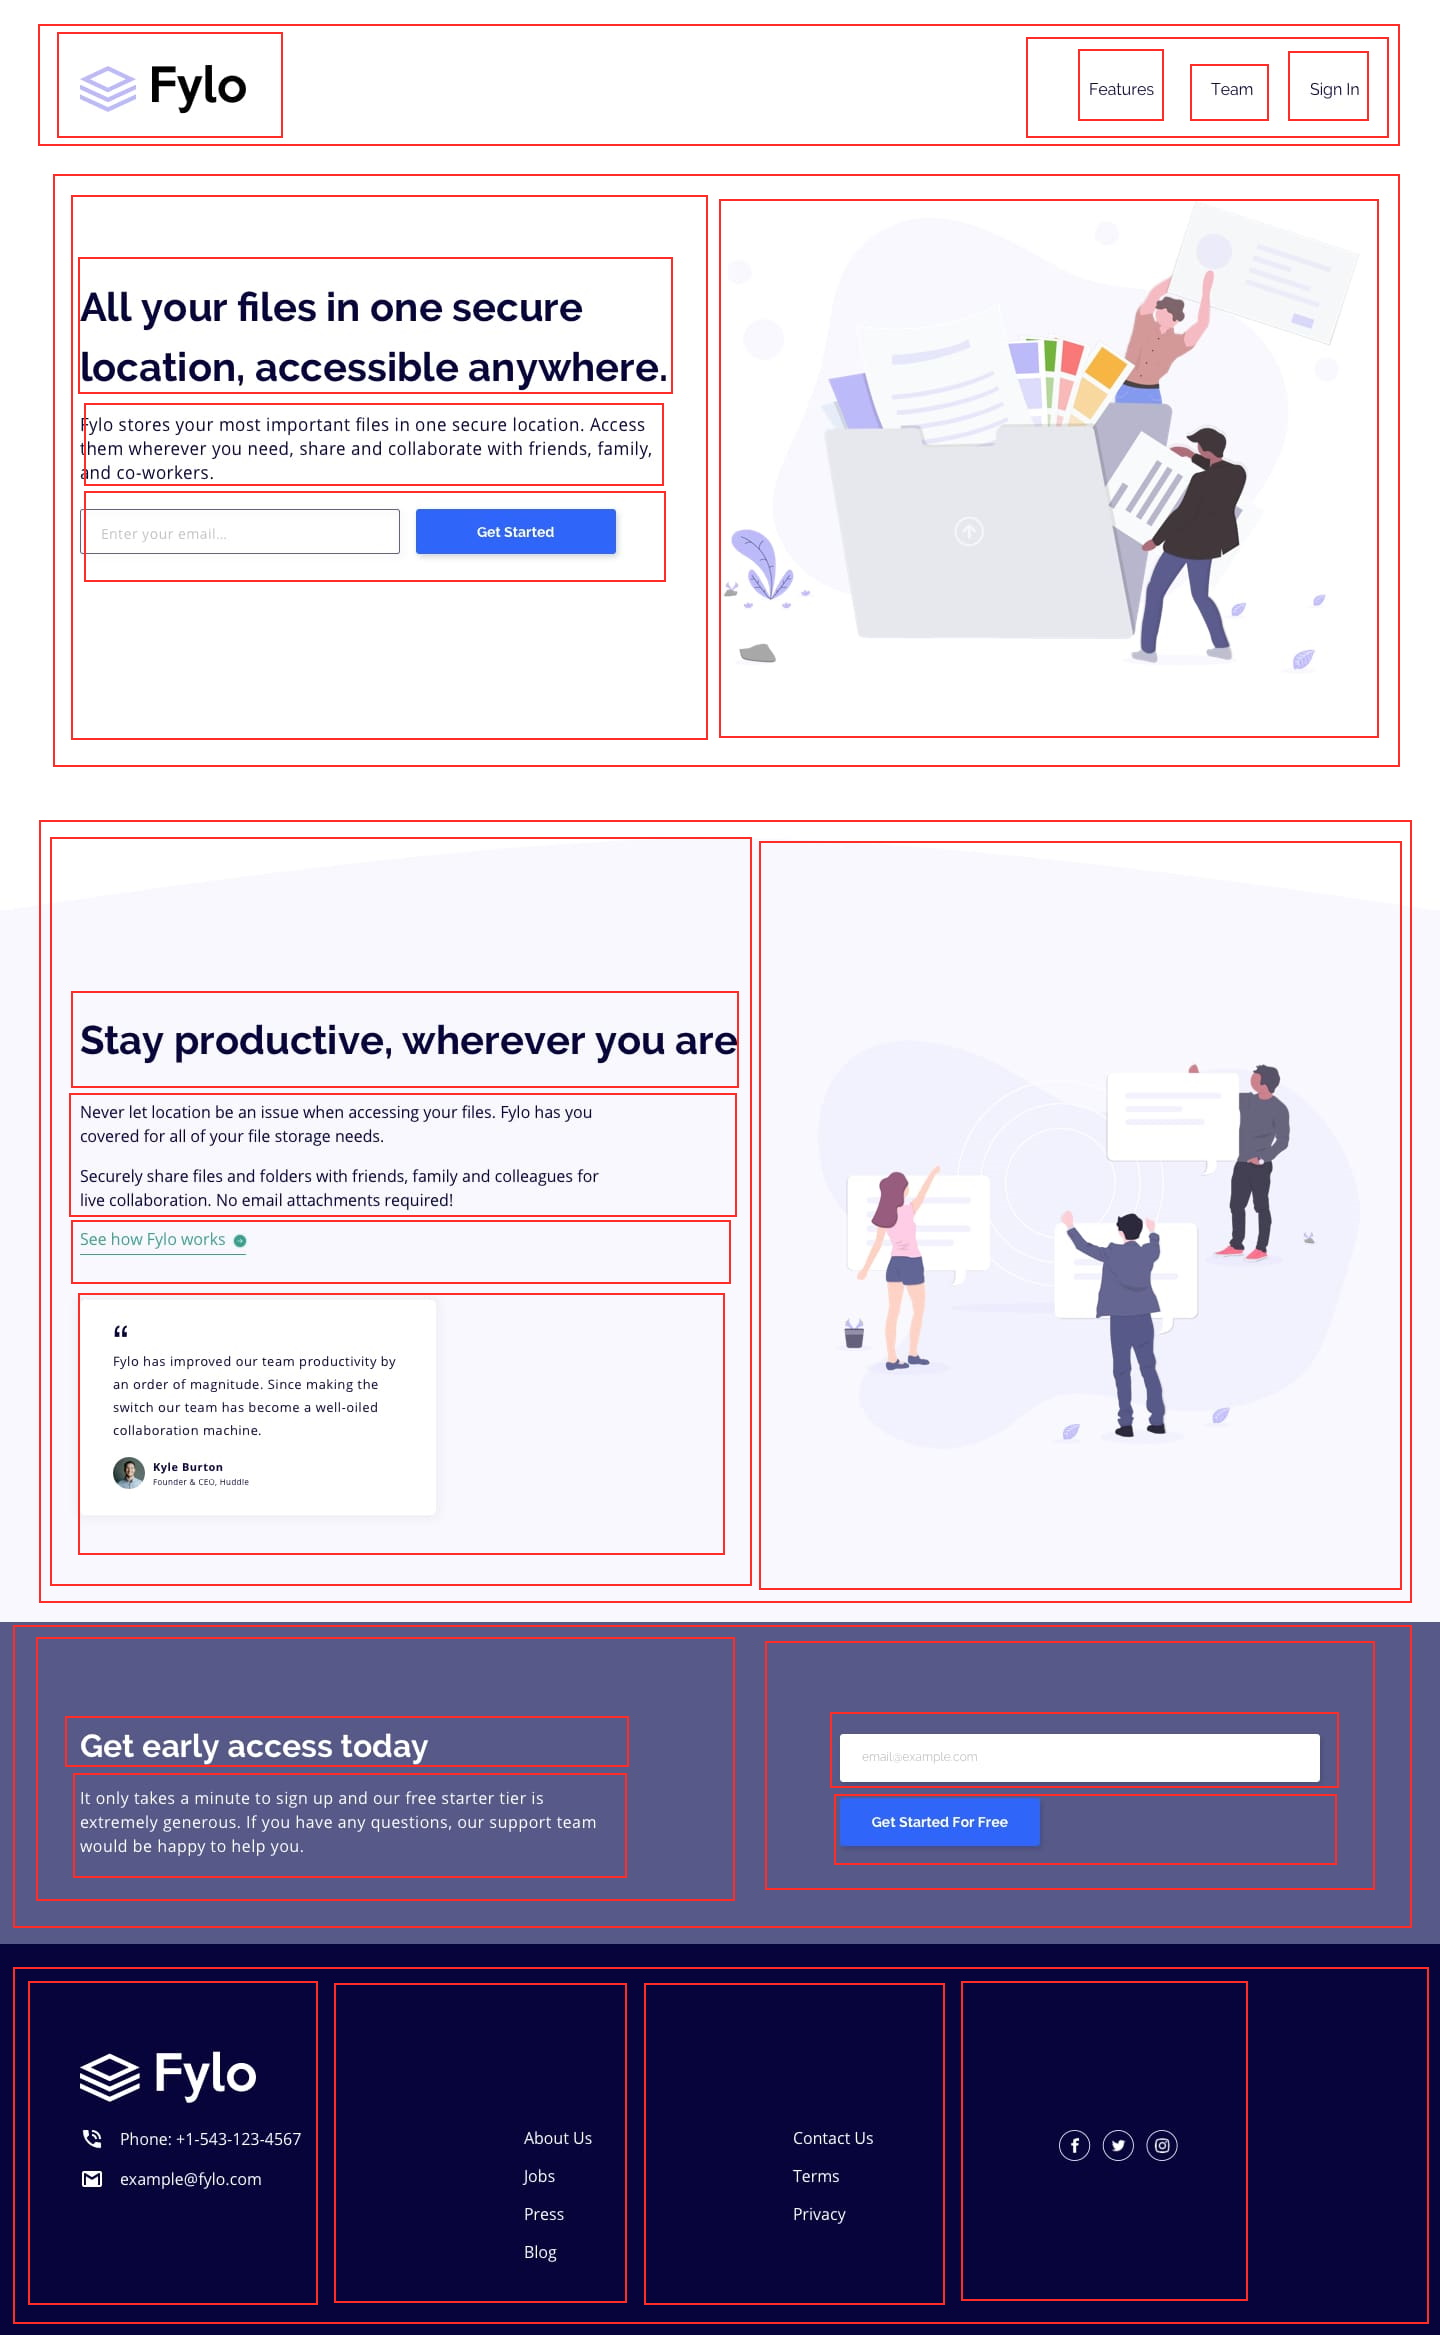
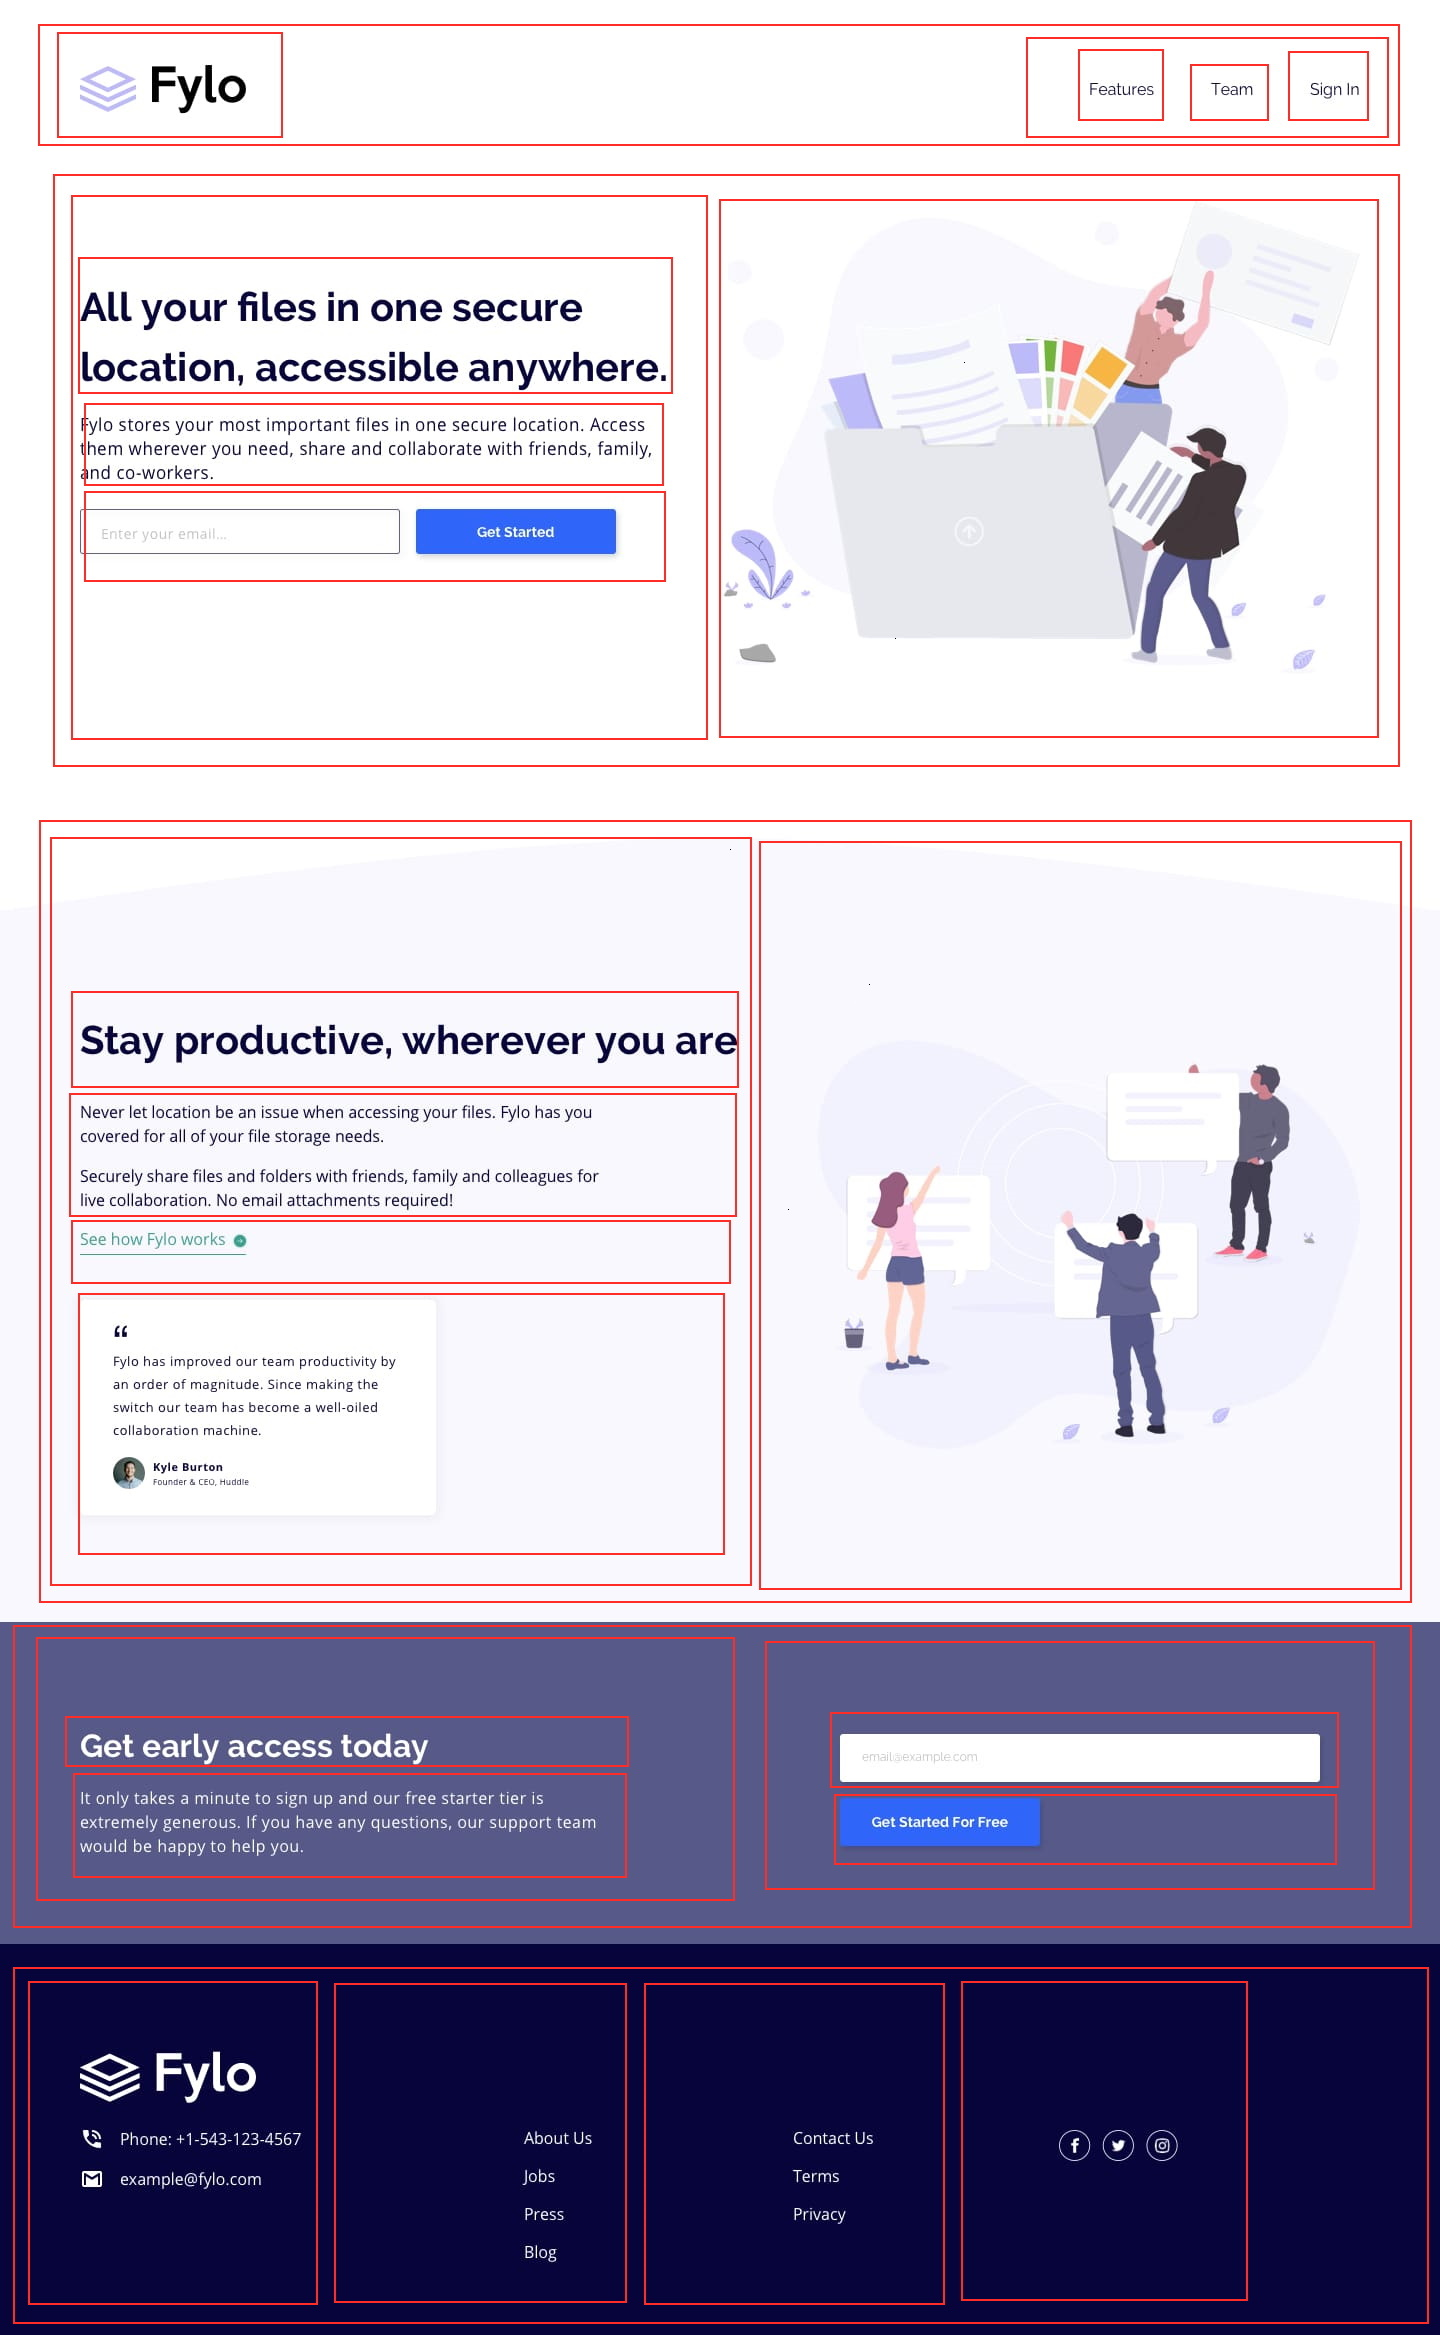
three section

Changed region(s): [[0.5, 0.4317, 0.5312, 0.6784], [0.0312, 0.0925, 0.0625, 0.2467]]

diff --git a/css/main.css b/css/main.css
@@ -2,7 +2,6 @@
 header{
 display: inline-block;
 width: 100%;
-/* background-color: #FFF; */
 font-family: 'Raleway', sans-serif;
 margin-bottom: 50px;
 }
@@ -43,13 +42,11 @@ margin-bottom: 50px;
 .section{
 display: inline-block;
 width: 100%;
-/* background-color:burlywood; */
 
 }
     .first-row{
     display: inline-block;
     width: 100%;
-    /* background-color: lightcoral; */
     width: 50%;
     float: left;
     margin: 3%;
@@ -81,10 +78,8 @@ width: 100%;
 
     .second-row{
     display: inline-block;
-    /* background-color: lightgreen; */
     width: 40%;    
     float: left;
-    /* margin */
     
     }
         .second-row > img{
@@ -97,12 +92,11 @@ width: 100%;
     display: inline-block;
     padding-top: 200px;
     width: 100%;
-    /* background-color: hotpink; */
      background-image: url(../img/bg-curve-desktop.svg);
      background-position-y: -300px;
      background-size: cover;
      background-position: center;
-     /* margin-top: 100px; */
+
 }
 
     .second-first-column{
@@ -112,23 +106,27 @@ width: 100%;
         margin-left: 3%;
         margin-right: 3%;
         }
+
+        .full{
+            display: inline-block;
+            width: 100%;
+        }
             .textimg{
                 display: inline-block;
-                /* width:100%; */
                 border-bottom: 1px solid hsl(170, 45%, 43%);
+                float: left;
                 
             }
             .text{
                 color:hsl(170, 45%, 43%);
                 text-decoration: none;
-                
             }
              h2 {
-                font-size: 50px;
+                font-size: 30px;
             }        
 
-            .second-section p{
-                width: 70%;
+            .second-section > .second-first-column > p{
+                width: 85%;
                 font-size: 14px;
             }
 
@@ -139,56 +137,117 @@ width: 100%;
             width: 300px;
             margin-left: 30px;
             margin-top: 30px;
-
-            /* height: 200px; */
-            /* margin-top: 30px; */
+            float: left;
 
         }
             .img-kabutes{
                 display: inline-block;
-                /* margin-left: 20px; */
-                /* margin-bottom: 10px; */
-                /* width: 100%; */
-                /* height: 10px; */
+                margin: 0;
+
 
             }
             .tarpkabuciu{
                 display: inline-block;
                 margin: 0px;
-                padding: 0px;
+
+            }
+            .face-frame{
+                height: 35px;
                 width: 100%;
-                /* margin-top: 10px; */
-                /* display: inline-block; */
-                /* width: 100%; */
+                margin-top: 10px;
+            
+
             }
             .face{
-                /* display: inline-block; */
-                /* width: 100%; */
+            height: 35px;   
+            object-fit: cover;             
+            object-position: center;
+            float: left;
+            margin-right: 10px;
+            border-radius: 45px;
+            background-color: white;
+            
             }
             .name{
                 display: inline-block;
-                width: 100%;
+                width: 50%;
                 font-size: 12px;
                 font-weight: 900;
+                margin-top: 2px;
             }
             .position{
-                /* display: inline; */
-                /* width: 100%; */
+                display: inline-block;
+                width: 50%;
                 font-size: 8px;
+                margin-bottom: 2px;
             }
 
 
     .second-second-column{
         width: 40%;
+        object-fit: contain;             
+        object-position: center;
         }
 
-footer{
+
+        .three-section{
+           display: inline-block; 
+           width: 100%;
+           background-color:#575989;     
+        }
+        .three-first-column{
+            display: inline-block; 
+            width: 50%;
+            margin-left: 35px;
+            margin-top: 50px;
+        
+        }
+        .three-first-column > h3{
+            font-size: 20px;
+            color: white;
+            
+        }
+        .three-first-column > p{
+            display: block;
+            width: 80%;
+            margin-top: 10px;
+            color: white;
+        }
+
+        .three-second-column{
+            display: inline-block; 
+           width: 39%;
+           
+
+        }
+        .three-text{
+            width: 70%;
+            margin-left: 60px ;
+            margin-right: 50px ;
+            margin-bottom: 10px ;
+            
+        }
+        .three-second-column > input{
+            margin-top: 50px ;
+            display: inline-block; 
+
+        }
+        .three-second-column > button{
+            display: inline-block; 
+            width: 30%;
+            font-size: 10px;
+            padding-left: 0px;
+            padding-right: 0px;
+            padding-top: 10px;
+            padding-bottom: 10px;
+        }
+
+        footer{
 display: inline-block;
 width: 100%;
 background-color: lightskyblue;
 }
   
-
     .linksocial{
     display: inline-block;
     width: 100%;

diff --git a/index.html b/index.html
@@ -37,26 +37,41 @@
             <h2 >Lorem ipsum dolor sit amet.</h2>
             <p >Lorem ipsum dolor sit amet consectetur adipisicing elit. Ipsum modi blanditiis in iure veniam omnis et perferendis, tempore quae illo animi!</p>
             <p >Lorem ipsum dolor, sit amet consectetur adipisicing elit. Deserunt id, rerum expedita commodi alias excepturi incidunt hic tempora deleniti facere. Quasi, facere.</p>
+            <div class="full">
             <div class="textimg">
                 <a class="text"href="#">See how Fylo works </a>
                 <img class="text" src="./img/icon-arrow.svg" alt="nuoroda">
             </div>
+        </div>
            <div class="feedback">
                <div>
                 <img class="img-kabutes" src="./img/icon-quotes.svg" alt="kabutes">
             </div>
                 <p class="tarpkabuciu">Lorem, ipsum dolor sit amet consectetur adipisicing elit. Possimus earum quos suscipit voluptas sed cupiditate accusamus eveniet eligendi veritatis! Facilis, in magni. Facilis.</p>
-                
-                <img src="" alt="" class="face">
-                <span class="name">  
+                <div class="face-frame">
+                    <img src="./images/avatar-testimonial.jpg" alt="" class="face">
+               
+                <div class="name">  
                     Kyle Burton                  
-                </span>
-                <span class="position">
+                </div>
+                <div class="position">
                     Founder & CEO, Huddle
-                </span>
+                </div>
+            </div>
            </div>
         </div>
         <img class="second-second-column" src="./img/illustration-2.svg" alt="">
+    </section>
+
+    <section class="three-section">
+        <div class="three-first-column">
+            <h3>Lorem ipsum dolor sit.</h3>
+            <p>Lorem, ipsum dolor sit amet consectetur adipisicing elit. Doloribus corporis amet a rem mollitia ipsum blanditiis natus. Libero excepturi repudiandae at accusamus eveniet numquam? Atque necessitatibus quo at beatae suscipit.</p>
+        </div>
+        <div class="three-second-column">
+            <input type="text" class="three-text" >
+            <button class="three-text">Get started for free</button>
+        </div>
     </section>
     <footer>
         <div class="linksocial">
